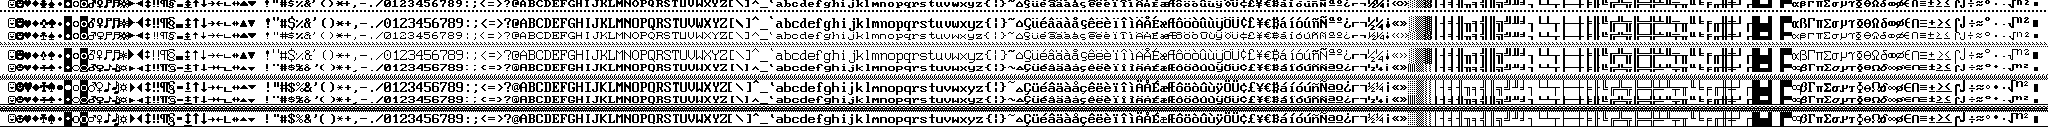
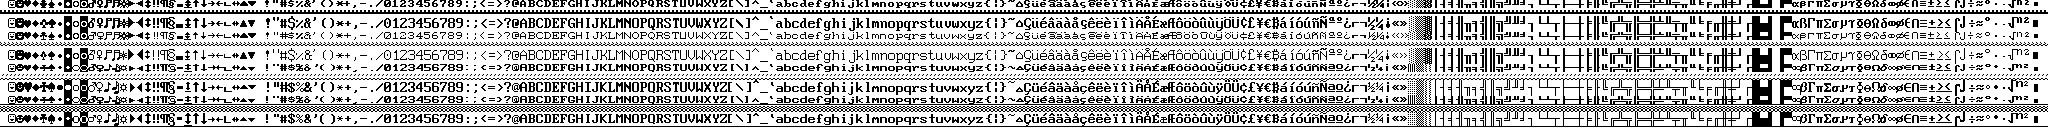
working PS/2 interface Bug fixes, buffer moved to video area for testing

diff --git a/build/font_hex.rb b/build/font_hex.rb
@@ -7,8 +7,12 @@
 # 0-7: 8x8 glyph fonts
 # 8: underline - last row of mod10 fonts, all 0's or 1's for underline
 # 9: blank - first row of mod10 fonts/low-res graphics, all 0's
-# 10-13: lo-res dither
-# 14,15: hi-res dither
+# 10: 1100 1000 0001 1001
+# 11: 1100 0100 0010 0110
+# 12: 1111 1001 0000 1001
+# 13: 1111 0110 0000 0110
+# 14: 0000 0000 0110 0110
+# 15: 0000 0000 1001 1001
 # 16-31: 8x16 glyph fonts
 HIRES = [
   [0b1100,
@@ -21,24 +25,24 @@ HIRES = [
    0b0110]
 ]
 LORESL = [
+  [0b1111,
+   0b1111],
+  [0b1001,
+   0b0110],
   [0b0000,
    0b0000],
-  [0b1010,
-   0b0000],
-  [0b1010,
-   0b1010],
-  [0b1111,
-   0b1010]
+  [0b1001,
+   0b0110]
 ]
 LORESR = [
   [0b0000,
    0b0000],
-  [0b0101,
+  [0b0000,
    0b0000],
-  [0b0101,
-   0b1010],
-  [0b1111,
-   0b0101]
+  [0b0110,
+   0b1001],
+  [0b0110,
+   0b1001]
 ]
 
 def print_ext_addr(addr)
@@ -137,18 +141,18 @@ print_underline 0xA8, false
 print_font 'fonts/Bm437_CompaqThin_8x16.txt', 0xB0
 
 # 0x0002D000-0x0002DFFF: thick san-serif 8x8 font
-# Chips and Technologies, Inc. 82C435 Enhanced Graphics Controller. ca. 1985
+# Phoenix Enhanced Video BIOS PLUS (Chips 82C435) ca. 1985
 print_font 'fonts/Bm437_PhoenixEGA_8x8.txt', 0xC0
 print_underline 0xC8, false
 # 0x0002D000-0x0002DFFF: thick san-serif 8x16 font
-# Chips and Technologies, Inc. 82C435 Enhanced Graphics Controller. ca. 1985
+# Phoenix Enhanced Video BIOS PLUS (Chips 82C435) ca. 1985
 print_font 'fonts/Bm437_PhoenixEGA_8x16.txt', 0xD0
 
 # 0x0002D000-0x0002DFFF: thick san-serif 8x8 font
-# Chips and Technologies, Inc. 82C435 Enhanced Graphics Controller. ca. 1985
+# Phoenix Enhanced Video BIOS PLUS (Chips 82C435) ca. 1985
 print_font 'fonts/Bm437_PhoenixEGA_8x8.txt', 0xE0
 print_underline 0xE8, true
 # 0x0002D000-0x0002DFFF: thick san-serif 8x14 font
-# Chips and Technologies, Inc. 82C435 Enhanced Graphics Controller. ca. 1985
+# Phoenix Enhanced Video BIOS PLUS (Chips 82C435) ca. 1985
 print_font 'fonts/Bm437_PhoenixEGA_8x14.txt', 0xF0
 print_underline 0xFE, true

diff --git a/build/alu_hex.rb b/build/alu_hex.rb
@@ -494,12 +494,11 @@ print_unary(0xE1, fork_feature)
 # $FORKK: fork on HAL feature
 print_unary(0xE2, fork_feature(true))
 # $ADSRPG: FRAME->ADSR Page: FC->3,FD->2,FE->1,FF->0
-#print_unary(0xE3, [0xE3]*253 + [0xE2,0xE1,0xE0])
-print_unary(0xE3, [0xE3,0xE2,0xE1,0xE0]*64) # *** DEBUG
+print_unary(0xE3, [0xE3]*253 + [0xE2,0xE1,0xE0])
 # $KS01?: &3==0||1 ? 0:-1
 print_unary(0xE4, 256.times.map{|i| i&3 <= 1 ? 0 : 0xFF})
-# $KDATA: &C>>2
-print_unary(0xE5, 256.times.map{|i| (i&0xC) >> 2})
+# $KDATA: &C<<2
+print_unary(0xE5, 256.times.map{|i| (i&0xC) << 2})
 # $TKTOG: toggle tx mode <-> keyboard mode
 print_unary(0xE6, 256.times.map{|i| i&0x40==0 ? ((i&2)<<4)|0xC2 : ((i&0x20)>>4)|0x98})
 # $RSADJ: serial state -1
@@ -548,10 +547,9 @@ print_unary(0xFA, inc_line)
 print_unary(0xFB, inc_proc)
 # $NSR: >>1&0x80
 print_unary(0xFC, 256.times.map{|i| (i>>1) | 0x80})
-# $ROR: >>1|LSB
-print_unary(0xFD, 256.times.map {|i| (i>>1) | (i<<7)&0x80})
 # $SWAP: BA = AB
-print_unary(0xFE, 256.times.map {|i| ((i>>4)|(i<<4))&0xFF})
+print_unary(0xFD, 256.times.map {|i| ((i>>4) | (i<<4))&0xFF})
+# $REVERSE: 76543210 = 01234567
+print_unary(0xFE, 256.times.map {|i| sprintf("%08b",i).reverse.to_i(2)})
 # AUDIO: 76543210 = 01234567^1
-print_unary(0xFF, 256.times.map {|i| (sprintf "%08b", i^0x80)}.map {|i| i.reverse.to_i(2)})
-
+print_unary(0xFF, 256.times.map {|i| sprintf("%08b",i).reverse.to_i(2)^1})
